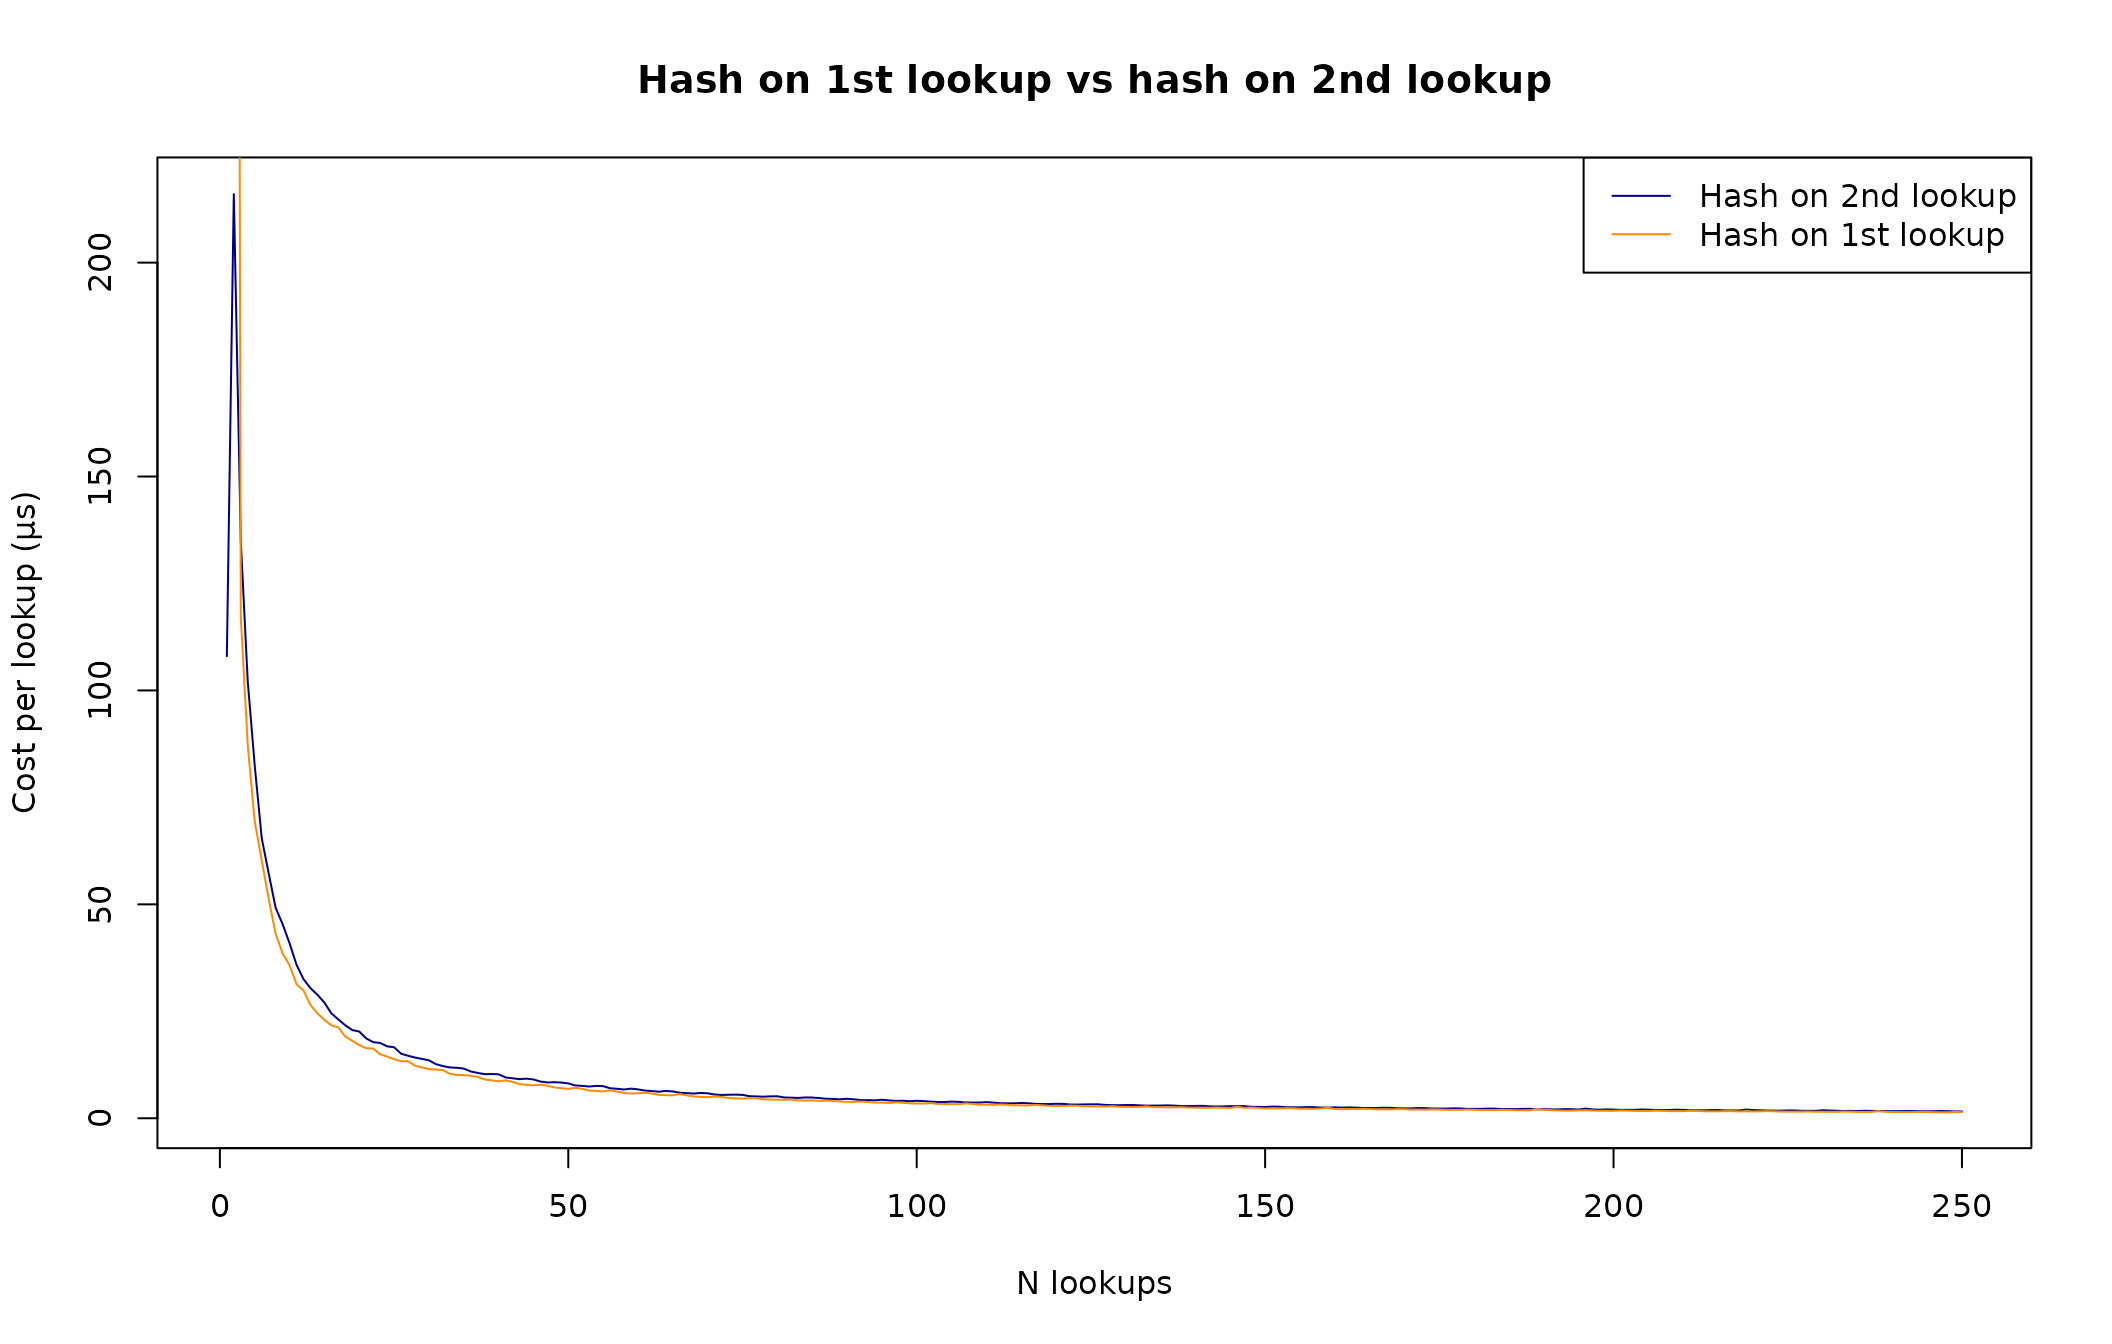
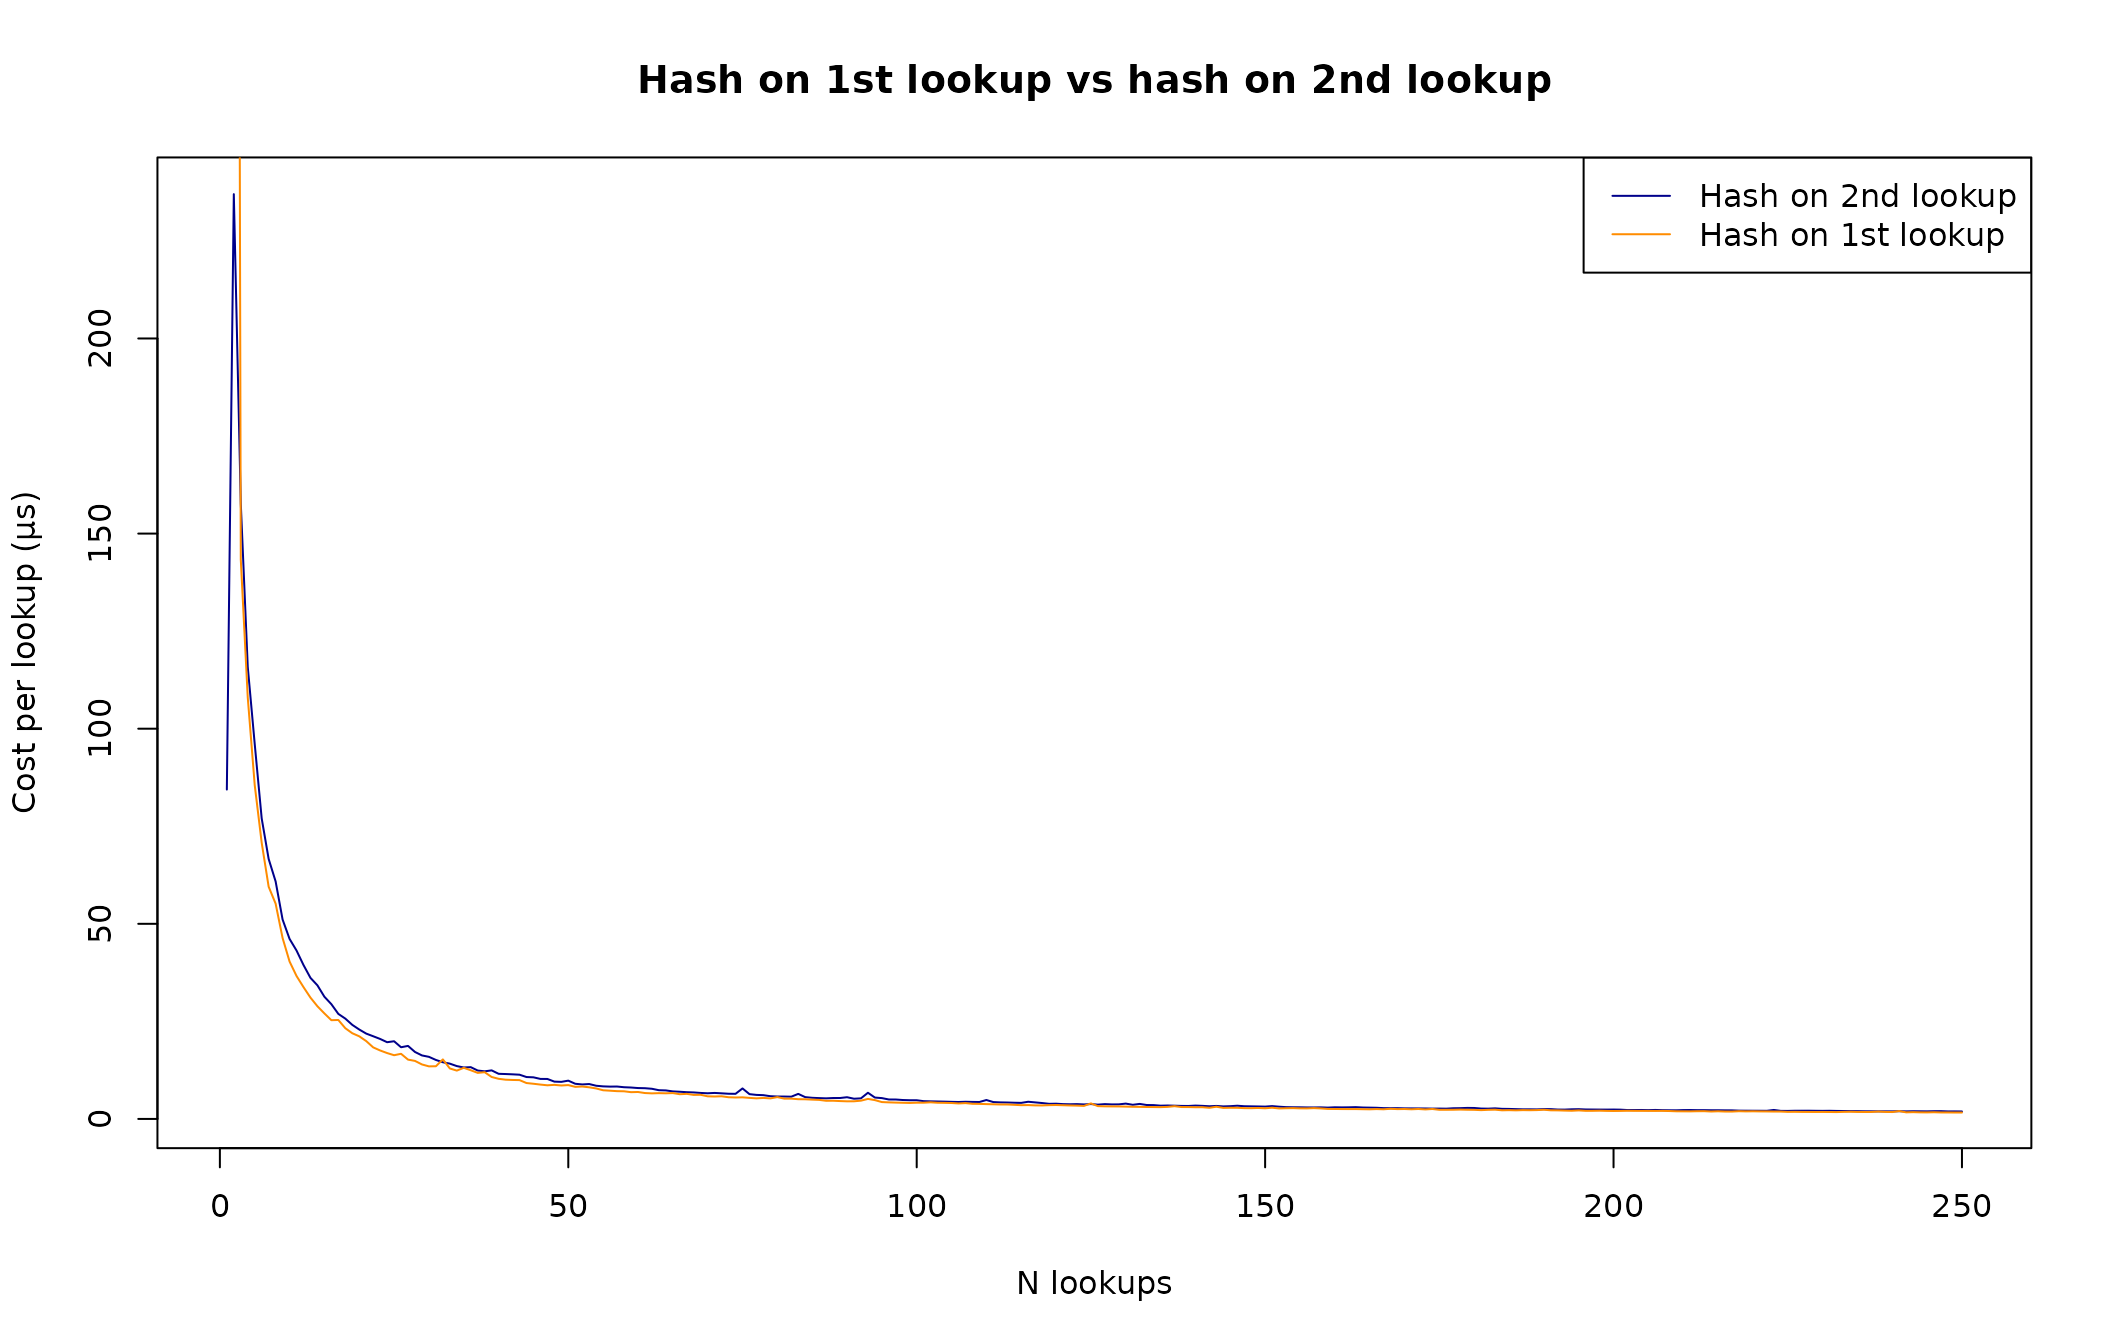
Deploying to gh-pages from @ NicChr/cppally@c8b9902f0fedfa3edd1aa2c9520593ccd8e44796 🚀

diff --git a/articles/protection.html b/articles/protection.html
@@ -144,11 +144,11 @@ optimisations.</p>
 <div class="sourceCode" id="cb4"><pre class="downlit sourceCode r">
 <code class="sourceCode R"><span><span class="va">insert_release_cpp11</span> <span class="op">&lt;-</span> <span class="fu"><a href="https://rdrr.io/r/base/lapply.html" class="external-link">replicate</a></span><span class="op">(</span><span class="fl">10</span><span class="op">^</span><span class="fl">4</span>, <span class="fu">bench_protect_insert_release_cpp11</span><span class="op">(</span><span class="fl">10</span><span class="op">^</span><span class="fl">4</span><span class="op">)</span><span class="op">)</span> </span>
 <span><span class="fu"><a href="https://rdrr.io/r/base/mean.html" class="external-link">mean</a></span><span class="op">(</span><span class="va">insert_release_cpp11</span><span class="op">)</span></span>
-<span><span class="co">#&gt; [1] 39.74929</span></span>
+<span><span class="co">#&gt; [1] 38.59722</span></span>
 <span><span class="va">insert_release_cppally</span> <span class="op">&lt;-</span> <span class="fu"><a href="https://rdrr.io/r/base/lapply.html" class="external-link">replicate</a></span><span class="op">(</span><span class="fl">10</span><span class="op">^</span><span class="fl">4</span>, <span class="fu">bench_protect_insert_release_cppally</span><span class="op">(</span><span class="fl">10</span><span class="op">^</span><span class="fl">4</span><span class="op">)</span><span class="op">)</span></span>
 <span><span class="fu"><a href="https://rdrr.io/r/base/mean.html" class="external-link">mean</a></span><span class="op">(</span><span class="va">insert_release_cppally</span><span class="op">)</span></span>
-<span><span class="co">#&gt; [1] 15.81977</span></span></code></pre></div>
-<p>On my machine, cpp11 performs an insert &amp; release every ~40
+<span><span class="co">#&gt; [1] 16.224</span></span></code></pre></div>
+<p>On my machine, cpp11 performs an insert &amp; release every ~39
 nanoseconds. cppally performs better, with ~16 nanoseconds per insert
 &amp; release.</p>
 <p><strong>Copy benchmark</strong></p>
@@ -195,12 +195,12 @@ nanoseconds. cppally performs better, with ~16 nanoseconds per insert
 <div class="sourceCode" id="cb7"><pre class="downlit sourceCode r">
 <code class="sourceCode R"><span><span class="va">copy_sexp_cpp11</span> <span class="op">&lt;-</span> <span class="fu"><a href="https://rdrr.io/r/base/lapply.html" class="external-link">replicate</a></span><span class="op">(</span><span class="fl">10</span><span class="op">^</span><span class="fl">4</span>, <span class="fu">bench_protect_copy_cpp11</span><span class="op">(</span><span class="fl">10</span><span class="op">^</span><span class="fl">4</span><span class="op">)</span><span class="op">)</span></span>
 <span><span class="fu"><a href="https://rdrr.io/r/base/mean.html" class="external-link">mean</a></span><span class="op">(</span><span class="va">copy_sexp_cpp11</span><span class="op">)</span></span>
-<span><span class="co">#&gt; [1] 35.48663</span></span>
+<span><span class="co">#&gt; [1] 36.93989</span></span>
 <span><span class="va">copy_sexp_cppally</span> <span class="op">&lt;-</span> <span class="fu"><a href="https://rdrr.io/r/base/lapply.html" class="external-link">replicate</a></span><span class="op">(</span><span class="fl">10</span><span class="op">^</span><span class="fl">4</span>, <span class="fu">bench_protect_copy_cppally</span><span class="op">(</span><span class="fl">10</span><span class="op">^</span><span class="fl">4</span><span class="op">)</span><span class="op">)</span></span>
 <span><span class="fu"><a href="https://rdrr.io/r/base/mean.html" class="external-link">mean</a></span><span class="op">(</span><span class="va">copy_sexp_cppally</span><span class="op">)</span></span>
-<span><span class="co">#&gt; [1] 0.2933013</span></span></code></pre></div>
+<span><span class="co">#&gt; [1] 0.3159722</span></span></code></pre></div>
 <p>In these benchmark results we can see a drastic difference, with
-cpp11 at ~35 ns/copy and cppally at ~0.3 ns/copy.</p>
+cpp11 at ~37 ns/copy and cppally at ~0.3 ns/copy.</p>
 <p><strong>Impact of protection overhead, a real example</strong></p>
 <p>Let’s look at a real example of how much protection overhead can have
 an impact on performance.</p>
@@ -259,21 +259,21 @@ values in a character vector</p>
 <span><span class="co">#&gt; <span style="color: #949494;"># A tibble: 1 × 6</span></span></span>
 <span><span class="co">#&gt;   expression         min   median `itr/sec` mem_alloc `gc/sec`</span></span>
 <span><span class="co">#&gt;   <span style="color: #949494; font-style: italic;">&lt;bch:expr&gt;</span>    <span style="color: #949494; font-style: italic;">&lt;bch:tm&gt;</span> <span style="color: #949494; font-style: italic;">&lt;bch:tm&gt;</span>     <span style="color: #949494; font-style: italic;">&lt;dbl&gt;</span> <span style="color: #949494; font-style: italic;">&lt;bch:byt&gt;</span>    <span style="color: #949494; font-style: italic;">&lt;dbl&gt;</span></span></span>
-<span><span class="co">#&gt; <span style="color: #BCBCBC;">1</span> C_na_count(x)   54.4µs   54.7µs    <span style="text-decoration: underline;">18</span>073.        0B        0</span></span></code></pre></div>
+<span><span class="co">#&gt; <span style="color: #BCBCBC;">1</span> C_na_count(x)   35.5µs   63.4µs    <span style="text-decoration: underline;">15</span>518.        0B        0</span></span></code></pre></div>
 <p><strong>cpp11 results</strong></p>
 <div class="sourceCode" id="cb13"><pre class="downlit sourceCode r">
 <code class="sourceCode R"><span><span class="fu"><a href="https://bench.r-lib.org/reference/mark.html" class="external-link">mark</a></span><span class="op">(</span><span class="fu">cpp11_na_count</span><span class="op">(</span><span class="va">x</span><span class="op">)</span><span class="op">)</span></span>
 <span><span class="co">#&gt; <span style="color: #949494;"># A tibble: 1 × 6</span></span></span>
 <span><span class="co">#&gt;   expression             min   median `itr/sec` mem_alloc `gc/sec`</span></span>
 <span><span class="co">#&gt;   <span style="color: #949494; font-style: italic;">&lt;bch:expr&gt;</span>        <span style="color: #949494; font-style: italic;">&lt;bch:tm&gt;</span> <span style="color: #949494; font-style: italic;">&lt;bch:tm&gt;</span>     <span style="color: #949494; font-style: italic;">&lt;dbl&gt;</span> <span style="color: #949494; font-style: italic;">&lt;bch:byt&gt;</span>    <span style="color: #949494; font-style: italic;">&lt;dbl&gt;</span></span></span>
-<span><span class="co">#&gt; <span style="color: #BCBCBC;">1</span> cpp11_na_count(x)   7.25ms   7.44ms      133.        0B     44.4</span></span></code></pre></div>
+<span><span class="co">#&gt; <span style="color: #BCBCBC;">1</span> cpp11_na_count(x)   6.88ms   6.99ms      142.        0B     47.5</span></span></code></pre></div>
 <p><strong>cppally results</strong></p>
 <div class="sourceCode" id="cb14"><pre class="downlit sourceCode r">
 <code class="sourceCode R"><span><span class="fu"><a href="https://bench.r-lib.org/reference/mark.html" class="external-link">mark</a></span><span class="op">(</span><span class="fu">cppally_na_count</span><span class="op">(</span><span class="va">x</span><span class="op">)</span><span class="op">)</span></span>
 <span><span class="co">#&gt; <span style="color: #949494;"># A tibble: 1 × 6</span></span></span>
 <span><span class="co">#&gt;   expression               min   median `itr/sec` mem_alloc `gc/sec`</span></span>
 <span><span class="co">#&gt;   <span style="color: #949494; font-style: italic;">&lt;bch:expr&gt;</span>          <span style="color: #949494; font-style: italic;">&lt;bch:tm&gt;</span> <span style="color: #949494; font-style: italic;">&lt;bch:tm&gt;</span>     <span style="color: #949494; font-style: italic;">&lt;dbl&gt;</span> <span style="color: #949494; font-style: italic;">&lt;bch:byt&gt;</span>    <span style="color: #949494; font-style: italic;">&lt;dbl&gt;</span></span></span>
-<span><span class="co">#&gt; <span style="color: #BCBCBC;">1</span> cppally_na_count(x)   1.26ms   1.33ms      753.        0B        0</span></span></code></pre></div>
+<span><span class="co">#&gt; <span style="color: #BCBCBC;">1</span> cppally_na_count(x)   1.46ms   1.47ms      677.        0B        0</span></span></code></pre></div>
 <p>Counting values is a simple operation and because of its simplicity,
 the overhead associated with protection will dominate the benchmark. We
 can see that when removing the protection overhead and using the R C API
@@ -315,7 +315,7 @@ non-owning version of <code>r_str</code>.</p>
 <span><span class="co">#&gt; <span style="color: #949494;"># A tibble: 1 × 6</span></span></span>
 <span><span class="co">#&gt;   expression                    min   median `itr/sec` mem_alloc `gc/sec`</span></span>
 <span><span class="co">#&gt;   <span style="color: #949494; font-style: italic;">&lt;bch:expr&gt;</span>               <span style="color: #949494; font-style: italic;">&lt;bch:tm&gt;</span> <span style="color: #949494; font-style: italic;">&lt;bch:tm&gt;</span>     <span style="color: #949494; font-style: italic;">&lt;dbl&gt;</span> <span style="color: #949494; font-style: italic;">&lt;bch:byt&gt;</span>    <span style="color: #949494; font-style: italic;">&lt;dbl&gt;</span></span></span>
-<span><span class="co">#&gt; <span style="color: #BCBCBC;">1</span> cppally_fast_na_count(x)   54.5µs   54.9µs    <span style="text-decoration: underline;">18</span>015.        0B        0</span></span></code></pre></div>
+<span><span class="co">#&gt; <span style="color: #BCBCBC;">1</span> cppally_fast_na_count(x)   34.4µs   63.6µs    <span style="text-decoration: underline;">15</span>225.        0B        0</span></span></code></pre></div>
 <p>Looking at the benchmark results, we have effectively eliminated the
 protection overhead and the median execution time is much closer to that
 of the R C API.</p>
@@ -342,7 +342,7 @@ context.</p>
 <span><span class="co">#&gt; <span style="color: #949494;"># A tibble: 1 × 6</span></span></span>
 <span><span class="co">#&gt;   expression                       min   median `itr/sec` mem_alloc `gc/sec`</span></span>
 <span><span class="co">#&gt;   <span style="color: #949494; font-style: italic;">&lt;bch:expr&gt;</span>                  <span style="color: #949494; font-style: italic;">&lt;bch:tm&gt;</span> <span style="color: #949494; font-style: italic;">&lt;bch:tm&gt;</span>     <span style="color: #949494; font-style: italic;">&lt;dbl&gt;</span> <span style="color: #949494; font-style: italic;">&lt;bch:byt&gt;</span>    <span style="color: #949494; font-style: italic;">&lt;dbl&gt;</span></span></span>
-<span><span class="co">#&gt; <span style="color: #BCBCBC;">1</span> cppally_fast_na_count_v2(x)   58.2µs   58.3µs    <span style="text-decoration: underline;">16</span>905.        0B        0</span></span></code></pre></div>
+<span><span class="co">#&gt; <span style="color: #BCBCBC;">1</span> cppally_fast_na_count_v2(x)   63.3µs   63.6µs    <span style="text-decoration: underline;">15</span>457.        0B     2.01</span></span></code></pre></div>
 <p>The results are similar to that of
 <code>cppally_fast_na_count()</code>.</p>
 </div>

diff --git a/articles/vector_name_hashing.html b/articles/vector_name_hashing.html
@@ -120,12 +120,12 @@ index</p>
 <span><span class="co">#&gt; <span style="color: #949494;"># A tibble: 1 × 6</span></span></span>
 <span><span class="co">#&gt;   expression      min   median `itr/sec` mem_alloc `gc/sec`</span></span>
 <span><span class="co">#&gt;   <span style="color: #949494; font-style: italic;">&lt;bch:expr&gt;</span> <span style="color: #949494; font-style: italic;">&lt;bch:tm&gt;</span> <span style="color: #949494; font-style: italic;">&lt;bch:tm&gt;</span>     <span style="color: #949494; font-style: italic;">&lt;dbl&gt;</span> <span style="color: #949494; font-style: italic;">&lt;bch:byt&gt;</span>    <span style="color: #949494; font-style: italic;">&lt;dbl&gt;</span></span></span>
-<span><span class="co">#&gt; <span style="color: #BCBCBC;">1</span> large[[1]]    128ns    139ns  5<span style="text-decoration: underline;">994</span>567.        0B     600.</span></span>
+<span><span class="co">#&gt; <span style="color: #BCBCBC;">1</span> large[[1]]    140ns    160ns  6<span style="text-decoration: underline;">031</span>327.        0B     603.</span></span>
 <span><span class="fu"><a href="https://bench.r-lib.org/reference/mark.html" class="external-link">mark</a></span><span class="op">(</span><span class="va">large</span><span class="op">[[</span><span class="fu"><a href="https://rdrr.io/r/base/length.html" class="external-link">length</a></span><span class="op">(</span><span class="va">large</span><span class="op">)</span><span class="op">]</span><span class="op">]</span><span class="op">)</span></span>
 <span><span class="co">#&gt; <span style="color: #949494;"># A tibble: 1 × 6</span></span></span>
 <span><span class="co">#&gt;   expression                  min   median `itr/sec` mem_alloc `gc/sec`</span></span>
 <span><span class="co">#&gt;   <span style="color: #949494; font-style: italic;">&lt;bch:expr&gt;</span>             <span style="color: #949494; font-style: italic;">&lt;bch:tm&gt;</span> <span style="color: #949494; font-style: italic;">&lt;bch:tm&gt;</span>     <span style="color: #949494; font-style: italic;">&lt;dbl&gt;</span> <span style="color: #949494; font-style: italic;">&lt;bch:byt&gt;</span>    <span style="color: #949494; font-style: italic;">&lt;dbl&gt;</span></span></span>
-<span><span class="co">#&gt; <span style="color: #BCBCBC;">1</span> large[[length(large)]]    202ns    216ns  4<span style="text-decoration: underline;">181</span>779.        0B        0</span></span></code></pre></div>
+<span><span class="co">#&gt; <span style="color: #BCBCBC;">1</span> large[[length(large)]]    220ns    241ns  3<span style="text-decoration: underline;">796</span>828.        0B        0</span></span></code></pre></div>
 <p>Since R scans the names each time, lookup by name is O(n) and can be
 slow if names happen to be near the end of the vector</p>
 <div class="sourceCode" id="cb6"><pre class="downlit sourceCode r">
@@ -136,8 +136,8 @@ slow if names happen to be near the end of the vector</p>
 <span><span class="co">#&gt; <span style="color: #949494;"># A tibble: 2 × 6</span></span></span>
 <span><span class="co">#&gt;   expression      min   median `itr/sec` mem_alloc `gc/sec`</span></span>
 <span><span class="co">#&gt;   <span style="color: #949494; font-style: italic;">&lt;bch:expr&gt;</span> <span style="color: #949494; font-style: italic;">&lt;bch:tm&gt;</span> <span style="color: #949494; font-style: italic;">&lt;bch:tm&gt;</span>     <span style="color: #949494; font-style: italic;">&lt;dbl&gt;</span> <span style="color: #949494; font-style: italic;">&lt;bch:byt&gt;</span>    <span style="color: #949494; font-style: italic;">&lt;dbl&gt;</span></span></span>
-<span><span class="co">#&gt; <span style="color: #BCBCBC;">1</span> by_name       136ns    147ns  6<span style="text-decoration: underline;">071</span>801.        0B     607.</span></span>
-<span><span class="co">#&gt; <span style="color: #BCBCBC;">2</span> by_index      125ns    137ns  6<span style="text-decoration: underline;">762</span>499.        0B       0</span></span>
+<span><span class="co">#&gt; <span style="color: #BCBCBC;">1</span> by_name       150ns    171ns  5<span style="text-decoration: underline;">332</span>112.        0B     533.</span></span>
+<span><span class="co">#&gt; <span style="color: #BCBCBC;">2</span> by_index      140ns    160ns  5<span style="text-decoration: underline;">843</span>260.        0B       0</span></span>
 <span></span>
 <span><span class="fu"><a href="https://bench.r-lib.org/reference/mark.html" class="external-link">mark</a></span><span class="op">(</span></span>
 <span>    by_name <span class="op">=</span> <span class="va">large</span><span class="op">[[</span><span class="st">"name_100000"</span><span class="op">]</span><span class="op">]</span>, </span>
@@ -146,8 +146,8 @@ slow if names happen to be near the end of the vector</p>
 <span><span class="co">#&gt; <span style="color: #949494;"># A tibble: 2 × 6</span></span></span>
 <span><span class="co">#&gt;   expression      min   median `itr/sec` mem_alloc `gc/sec`</span></span>
 <span><span class="co">#&gt;   <span style="color: #949494; font-style: italic;">&lt;bch:expr&gt;</span> <span style="color: #949494; font-style: italic;">&lt;bch:tm&gt;</span> <span style="color: #949494; font-style: italic;">&lt;bch:tm&gt;</span>     <span style="color: #949494; font-style: italic;">&lt;dbl&gt;</span> <span style="color: #949494; font-style: italic;">&lt;bch:byt&gt;</span>    <span style="color: #949494; font-style: italic;">&lt;dbl&gt;</span></span></span>
-<span><span class="co">#&gt; <span style="color: #BCBCBC;">1</span> by_name       521µs    553µs     <span style="text-decoration: underline;">1</span>787.        0B        0</span></span>
-<span><span class="co">#&gt; <span style="color: #BCBCBC;">2</span> by_index      128ns    138ns  6<span style="text-decoration: underline;">890</span>840.        0B        0</span></span></code></pre></div>
+<span><span class="co">#&gt; <span style="color: #BCBCBC;">1</span> by_name       548µs    560µs     <span style="text-decoration: underline;">1</span>772.        0B        0</span></span>
+<span><span class="co">#&gt; <span style="color: #BCBCBC;">2</span> by_index      140ns    160ns  6<span style="text-decoration: underline;">009</span>575.        0B        0</span></span></code></pre></div>
 <p>If we created a hash table of names-values, we could speedup repeated
 lookups</p>
 <div class="sourceCode" id="cb7"><pre class="downlit sourceCode r">
@@ -171,9 +171,9 @@ hashed name</p>
 <span><span class="co">#&gt; <span style="color: #949494;"># A tibble: 3 × 6</span></span></span>
 <span><span class="co">#&gt;   expression          min   median `itr/sec` mem_alloc `gc/sec`</span></span>
 <span><span class="co">#&gt;   <span style="color: #949494; font-style: italic;">&lt;bch:expr&gt;</span>     <span style="color: #949494; font-style: italic;">&lt;bch:tm&gt;</span> <span style="color: #949494; font-style: italic;">&lt;bch:tm&gt;</span>     <span style="color: #949494; font-style: italic;">&lt;dbl&gt;</span> <span style="color: #949494; font-style: italic;">&lt;bch:byt&gt;</span>    <span style="color: #949494; font-style: italic;">&lt;dbl&gt;</span></span></span>
-<span><span class="co">#&gt; <span style="color: #BCBCBC;">1</span> by_name           521µs    552µs     <span style="text-decoration: underline;">1</span>807.        0B        0</span></span>
-<span><span class="co">#&gt; <span style="color: #BCBCBC;">2</span> by_index          129ns    139ns  6<span style="text-decoration: underline;">221</span>037.        0B        0</span></span>
-<span><span class="co">#&gt; <span style="color: #BCBCBC;">3</span> by_hashed_name    807ns    835ns   <span style="text-decoration: underline;">880</span>047.        0B        0</span></span></code></pre></div>
+<span><span class="co">#&gt; <span style="color: #BCBCBC;">1</span> by_name           548µs    561µs     <span style="text-decoration: underline;">1</span>782.        0B        0</span></span>
+<span><span class="co">#&gt; <span style="color: #BCBCBC;">2</span> by_index          140ns    160ns  5<span style="text-decoration: underline;">937</span>629.        0B        0</span></span>
+<span><span class="co">#&gt; <span style="color: #BCBCBC;">3</span> by_hashed_name    881ns    922ns   <span style="text-decoration: underline;">771</span>728.        0B        0</span></span></code></pre></div>
 <p>That worked! Extracting the value associated with the last name using
 the hash table was almost as fast as looking it up by location.</p>
 <p>cppally uses this same approach internally, attaching a lazy hash map
@@ -305,8 +305,8 @@ R and C++</p>
 <span><span class="co">#&gt; <span style="color: #949494;"># A tibble: 2 × 6</span></span></span>
 <span><span class="co">#&gt;   expression              min   median `itr/sec` mem_alloc `gc/sec`</span></span>
 <span><span class="co">#&gt;   <span style="color: #949494; font-style: italic;">&lt;bch:expr&gt;</span>         <span style="color: #949494; font-style: italic;">&lt;bch:tm&gt;</span> <span style="color: #949494; font-style: italic;">&lt;bch:tm&gt;</span>     <span style="color: #949494; font-style: italic;">&lt;dbl&gt;</span> <span style="color: #949494; font-style: italic;">&lt;bch:byt&gt;</span>    <span style="color: #949494; font-style: italic;">&lt;dbl&gt;</span></span></span>
-<span><span class="co">#&gt; <span style="color: #BCBCBC;">1</span> cppally_one_lookup   30.3µs   30.9µs    <span style="text-decoration: underline;">31</span>569.        0B        0</span></span>
-<span><span class="co">#&gt; <span style="color: #BCBCBC;">2</span> base_one_lookup     534.8µs  566.1µs     <span style="text-decoration: underline;">1</span>764.    21.6KB        0</span></span></code></pre></div>
+<span><span class="co">#&gt; <span style="color: #BCBCBC;">1</span> cppally_one_lookup   33.5µs     34µs    <span style="text-decoration: underline;">28</span>241.        0B        0</span></span>
+<span><span class="co">#&gt; <span style="color: #BCBCBC;">2</span> base_one_lookup     548.9µs    562µs     <span style="text-decoration: underline;">1</span>777.    21.6KB        0</span></span></code></pre></div>
 <p>While I’m not sure why cppally’s linear scan is faster than R’s, it
 may be due to the fact that direct data access is used to compare
 elements instead of <code>STRING_ELT()</code></p>

diff --git a/reference/cpp_source.html b/reference/cpp_source.html
@@ -304,13 +304,13 @@ the <code>[[cppally::register]]</code> tagged functions to R. <br><code>cpp_eval
 <span class="r-out co"><span class="r-pr">#&gt;</span> <span style="color: #949494;"># A tibble: 1 × 13</span></span>
 <span class="r-out co"><span class="r-pr">#&gt;</span>   expression      min median `itr/sec` mem_alloc `gc/sec` n_itr  n_gc total_time</span>
 <span class="r-out co"><span class="r-pr">#&gt;</span>   <span style="color: #949494; font-style: italic;">&lt;bch:expr&gt;</span>   <span style="color: #949494; font-style: italic;">&lt;bch:&gt;</span> <span style="color: #949494; font-style: italic;">&lt;bch:&gt;</span>     <span style="color: #949494; font-style: italic;">&lt;dbl&gt;</span> <span style="color: #949494; font-style: italic;">&lt;bch:byt&gt;</span>    <span style="color: #949494; font-style: italic;">&lt;dbl&gt;</span> <span style="color: #949494; font-style: italic;">&lt;int&gt;</span> <span style="color: #949494; font-style: italic;">&lt;dbl&gt;</span>   <span style="color: #949494; font-style: italic;">&lt;bch:tm&gt;</span></span>
-<span class="r-out co"><span class="r-pr">#&gt;</span> <span style="color: #BCBCBC;">1</span> last_altrep… 3.71µs 4.72µs   <span style="text-decoration: underline;">173</span>868.    3.18KB        0 <span style="text-decoration: underline;">10</span>000     0     57.5ms</span>
+<span class="r-out co"><span class="r-pr">#&gt;</span> <span style="color: #BCBCBC;">1</span> last_altrep… 4.03µs 5.34µs   <span style="text-decoration: underline;">185</span>231.    3.18KB        0 <span style="text-decoration: underline;">10</span>000     0       54ms</span>
 <span class="r-out co"><span class="r-pr">#&gt;</span> <span style="color: #949494;"># ℹ 4 more variables: result &lt;list&gt;, memory &lt;list&gt;, time &lt;list&gt;, gc &lt;list&gt;</span></span>
 <span class="r-in"><span><span class="fu"><a href="https://bench.r-lib.org/reference/mark.html" class="external-link">mark</a></span><span class="op">(</span><span class="fu">last_altrep_unaware</span><span class="op">(</span><span class="fl">1</span><span class="op">:</span><span class="fl">10</span><span class="op">^</span><span class="fl">5</span><span class="op">)</span><span class="op">)</span> <span class="co"># Materialises full vector</span></span></span>
 <span class="r-out co"><span class="r-pr">#&gt;</span> <span style="color: #949494;"># A tibble: 1 × 13</span></span>
 <span class="r-out co"><span class="r-pr">#&gt;</span>   expression      min median `itr/sec` mem_alloc `gc/sec` n_itr  n_gc total_time</span>
 <span class="r-out co"><span class="r-pr">#&gt;</span>   <span style="color: #949494; font-style: italic;">&lt;bch:expr&gt;</span>   <span style="color: #949494; font-style: italic;">&lt;bch:&gt;</span> <span style="color: #949494; font-style: italic;">&lt;bch:&gt;</span>     <span style="color: #949494; font-style: italic;">&lt;dbl&gt;</span> <span style="color: #949494; font-style: italic;">&lt;bch:byt&gt;</span>    <span style="color: #949494; font-style: italic;">&lt;dbl&gt;</span> <span style="color: #949494; font-style: italic;">&lt;int&gt;</span> <span style="color: #949494; font-style: italic;">&lt;dbl&gt;</span>   <span style="color: #949494; font-style: italic;">&lt;bch:tm&gt;</span></span>
-<span class="r-out co"><span class="r-pr">#&gt;</span> <span style="color: #BCBCBC;">1</span> last_altrep… 47.5µs 51.9µs    <span style="text-decoration: underline;">16</span>021.     391KB     127.  <span style="text-decoration: underline;">3</span>670    29      229ms</span>
+<span class="r-out co"><span class="r-pr">#&gt;</span> <span style="color: #BCBCBC;">1</span> last_altrep… 37.6µs 39.4µs    <span style="text-decoration: underline;">19</span>764.     391KB     160.  <span style="text-decoration: underline;">3</span>707    30      188ms</span>
 <span class="r-out co"><span class="r-pr">#&gt;</span> <span style="color: #949494;"># ℹ 4 more variables: result &lt;list&gt;, memory &lt;list&gt;, time &lt;list&gt;, gc &lt;list&gt;</span></span>
 <span class="r-in"><span></span></span>
 <span class="r-in"><span><span class="co">### Copy-on-modify ###</span></span></span>
@@ -346,7 +346,7 @@ the <code>[[cppally::register]]</code> tagged functions to R. <br><code>cpp_eval
 <span class="r-out co"><span class="r-pr">#&gt;</span> <span style="color: #949494;"># A tibble: 1 × 13</span></span>
 <span class="r-out co"><span class="r-pr">#&gt;</span>   expression      min median `itr/sec` mem_alloc `gc/sec` n_itr  n_gc total_time</span>
 <span class="r-out co"><span class="r-pr">#&gt;</span>   <span style="color: #949494; font-style: italic;">&lt;bch:expr&gt;</span> <span style="color: #949494; font-style: italic;">&lt;bch:tm&gt;</span> <span style="color: #949494; font-style: italic;">&lt;bch:&gt;</span>     <span style="color: #949494; font-style: italic;">&lt;dbl&gt;</span> <span style="color: #949494; font-style: italic;">&lt;bch:byt&gt;</span>    <span style="color: #949494; font-style: italic;">&lt;dbl&gt;</span> <span style="color: #949494; font-style: italic;">&lt;int&gt;</span> <span style="color: #949494; font-style: italic;">&lt;dbl&gt;</span>   <span style="color: #949494; font-style: italic;">&lt;bch:tm&gt;</span></span>
-<span class="r-out co"><span class="r-pr">#&gt;</span> <span style="color: #BCBCBC;">1</span> reverse(x)    412µs  519µs     <span style="text-decoration: underline;">2</span>027.     391KB     15.9   763     6      376ms</span>
+<span class="r-out co"><span class="r-pr">#&gt;</span> <span style="color: #BCBCBC;">1</span> reverse(x)    475µs  490µs     <span style="text-decoration: underline;">1</span>992.     391KB     14.8   945     7      474ms</span>
 <span class="r-out co"><span class="r-pr">#&gt;</span> <span style="color: #949494;"># ℹ 4 more variables: result &lt;list&gt;, memory &lt;list&gt;, time &lt;list&gt;, gc &lt;list&gt;</span></span>
 <span class="r-in"><span></span></span>
 <span class="r-in"><span><span class="co"># The cppally preferred approach is to allocate a fresh vector or copy the</span></span></span>
@@ -372,10 +372,10 @@ the <code>[[cppally::register]]</code> tagged functions to R. <br><code>cpp_eval
 <span class="r-in"><span><span class="op">)</span></span></span>
 <span class="r-out co"><span class="r-pr">#&gt;</span> <span style="color: #949494;"># A tibble: 3 × 13</span></span>
 <span class="r-out co"><span class="r-pr">#&gt;</span>   expression     min  median `itr/sec` mem_alloc `gc/sec` n_itr  n_gc total_time</span>
-<span class="r-out co"><span class="r-pr">#&gt;</span>   <span style="color: #949494; font-style: italic;">&lt;bch:expr&gt;</span> <span style="color: #949494; font-style: italic;">&lt;bch:t&gt;</span> <span style="color: #949494; font-style: italic;">&lt;bch:t&gt;</span>     <span style="color: #949494; font-style: italic;">&lt;dbl&gt;</span> <span style="color: #949494; font-style: italic;">&lt;bch:byt&gt;</span>    <span style="color: #949494; font-style: italic;">&lt;dbl&gt;</span> <span style="color: #949494; font-style: italic;">&lt;int&gt;</span> <span style="color: #949494; font-style: italic;">&lt;dbl&gt;</span>   <span style="color: #949494; font-style: italic;">&lt;bch:tm&gt;</span></span>
-<span class="r-out co"><span class="r-pr">#&gt;</span> <span style="color: #BCBCBC;">1</span> r_reverse  227.2µs   236µs     <span style="text-decoration: underline;">4</span>032.     781KB     67.6  <span style="text-decoration: underline;">1</span>312    22      325ms</span>
-<span class="r-out co"><span class="r-pr">#&gt;</span> <span style="color: #BCBCBC;">2</span> cppally_c… 409.3µs 433.4µs     <span style="text-decoration: underline;">2</span>276.     391KB     17.0  <span style="text-decoration: underline;">1</span>071     8      471ms</span>
-<span class="r-out co"><span class="r-pr">#&gt;</span> <span style="color: #BCBCBC;">3</span> cppally_n…  76.8µs  84.5µs    <span style="text-decoration: underline;">10</span>036.     391KB     76.3  <span style="text-decoration: underline;">3</span>288    25      328ms</span>
+<span class="r-out co"><span class="r-pr">#&gt;</span>   <span style="color: #949494; font-style: italic;">&lt;bch:expr&gt;</span>   <span style="color: #949494; font-style: italic;">&lt;bch&gt;</span> <span style="color: #949494; font-style: italic;">&lt;bch:t&gt;</span>     <span style="color: #949494; font-style: italic;">&lt;dbl&gt;</span> <span style="color: #949494; font-style: italic;">&lt;bch:byt&gt;</span>    <span style="color: #949494; font-style: italic;">&lt;dbl&gt;</span> <span style="color: #949494; font-style: italic;">&lt;int&gt;</span> <span style="color: #949494; font-style: italic;">&lt;dbl&gt;</span>   <span style="color: #949494; font-style: italic;">&lt;bch:tm&gt;</span></span>
+<span class="r-out co"><span class="r-pr">#&gt;</span> <span style="color: #BCBCBC;">1</span> r_reverse    221µs 223.4µs     <span style="text-decoration: underline;">3</span>822.     781KB     62.2  <span style="text-decoration: underline;">1</span>229    20      322ms</span>
+<span class="r-out co"><span class="r-pr">#&gt;</span> <span style="color: #BCBCBC;">2</span> cppally_cop… 471µs 487.6µs     <span style="text-decoration: underline;">1</span>962.     391KB     14.9   919     7      468ms</span>
+<span class="r-out co"><span class="r-pr">#&gt;</span> <span style="color: #BCBCBC;">3</span> cppally_no_…  65µs  77.7µs     <span style="text-decoration: underline;">7</span>342.     391KB     58.0  <span style="text-decoration: underline;">2</span>404    19      327ms</span>
 <span class="r-out co"><span class="r-pr">#&gt;</span> <span style="color: #949494;"># ℹ 4 more variables: result &lt;list&gt;, memory &lt;list&gt;, time &lt;list&gt;, gc &lt;list&gt;</span></span>
 <span class="r-in"><span><span class="co"># }</span></span></span>
 <span class="r-in"><span></span></span>

diff --git a/articles/cppally.html b/articles/cppally.html
@@ -1227,8 +1227,8 @@ of number of unique values.</p>
 <span><span class="co">#&gt; <span style="color: #949494;"># A tibble: 2 × 6</span></span></span>
 <span><span class="co">#&gt;   expression            min   median `itr/sec` mem_alloc `gc/sec`</span></span>
 <span><span class="co">#&gt;   <span style="color: #949494; font-style: italic;">&lt;bch:expr&gt;</span>       <span style="color: #949494; font-style: italic;">&lt;bch:tm&gt;</span> <span style="color: #949494; font-style: italic;">&lt;bch:tm&gt;</span>     <span style="color: #949494; font-style: italic;">&lt;dbl&gt;</span> <span style="color: #949494; font-style: italic;">&lt;bch:byt&gt;</span>    <span style="color: #949494; font-style: italic;">&lt;dbl&gt;</span></span></span>
-<span><span class="co">#&gt; <span style="color: #BCBCBC;">1</span> base_n_unique       691µs    735µs     <span style="text-decoration: underline;">1</span>245.    1.38MB     36.9</span></span>
-<span><span class="co">#&gt; <span style="color: #BCBCBC;">2</span> cppally_n_unique    145µs    146µs     <span style="text-decoration: underline;">6</span>788.        0B      0</span></span></code></pre></div>
+<span><span class="co">#&gt; <span style="color: #BCBCBC;">1</span> base_n_unique       708µs    789µs     <span style="text-decoration: underline;">1</span>155.    1.38MB     34.4</span></span>
+<span><span class="co">#&gt; <span style="color: #BCBCBC;">2</span> cppally_n_unique    156µs    157µs     <span style="text-decoration: underline;">6</span>267.        0B      0</span></span></code></pre></div>
 <p>More useful sugar functions</p>
 <ul>
 <li><p><code><a href="https://rdrr.io/r/base/unique.html" class="external-link">unique()</a></code> - Like R’s <code><a href="https://rdrr.io/r/base/unique.html" class="external-link">unique()</a></code> but with a

diff --git a/articles/protection.md b/articles/protection.md
@@ -88,13 +88,13 @@ double bench_protect_insert_release_cppally(int n) {
 
 insert_release_cpp11 <- replicate(10^4, bench_protect_insert_release_cpp11(10^4)) 
 mean(insert_release_cpp11)
-#> [1] 39.74929
+#> [1] 38.59722
 insert_release_cppally <- replicate(10^4, bench_protect_insert_release_cppally(10^4))
 mean(insert_release_cppally)
-#> [1] 15.81977
+#> [1] 16.224
 ```
 
-On my machine, cpp11 performs an insert & release every ~40 nanoseconds.
+On my machine, cpp11 performs an insert & release every ~39 nanoseconds.
 cppally performs better, with ~16 nanoseconds per insert & release.
 
 **Copy benchmark**
@@ -150,14 +150,14 @@ double bench_protect_copy_cppally(int n) {
 
 copy_sexp_cpp11 <- replicate(10^4, bench_protect_copy_cpp11(10^4))
 mean(copy_sexp_cpp11)
-#> [1] 35.48663
+#> [1] 36.93989
 copy_sexp_cppally <- replicate(10^4, bench_protect_copy_cppally(10^4))
 mean(copy_sexp_cppally)
-#> [1] 0.2933013
+#> [1] 0.3159722
 ```
 
 In these benchmark results we can see a drastic difference, with cpp11
-at ~35 ns/copy and cppally at ~0.3 ns/copy.
+at ~37 ns/copy and cppally at ~0.3 ns/copy.
 
 **Impact of protection overhead, a real example**
 
@@ -233,7 +233,7 @@ mark(C_na_count(x))
 #> # A tibble: 1 × 6
 #>   expression         min   median `itr/sec` mem_alloc `gc/sec`
 #>   <bch:expr>    <bch:tm> <bch:tm>     <dbl> <bch:byt>    <dbl>
-#> 1 C_na_count(x)   54.4µs   54.7µs    18073.        0B        0
+#> 1 C_na_count(x)   35.5µs   63.4µs    15518.        0B        0
 ```
 
 **cpp11 results**
@@ -244,7 +244,7 @@ mark(cpp11_na_count(x))
 #> # A tibble: 1 × 6
 #>   expression             min   median `itr/sec` mem_alloc `gc/sec`
 #>   <bch:expr>        <bch:tm> <bch:tm>     <dbl> <bch:byt>    <dbl>
-#> 1 cpp11_na_count(x)   7.25ms   7.44ms      133.        0B     44.4
+#> 1 cpp11_na_count(x)   6.88ms   6.99ms      142.        0B     47.5
 ```
 
 **cppally results**
@@ -255,7 +255,7 @@ mark(cppally_na_count(x))
 #> # A tibble: 1 × 6
 #>   expression               min   median `itr/sec` mem_alloc `gc/sec`
 #>   <bch:expr>          <bch:tm> <bch:tm>     <dbl> <bch:byt>    <dbl>
-#> 1 cppally_na_count(x)   1.26ms   1.33ms      753.        0B        0
+#> 1 cppally_na_count(x)   1.46ms   1.47ms      677.        0B        0
 ```
 
 Counting values is a simple operation and because of its simplicity, the
@@ -302,7 +302,7 @@ mark(cppally_fast_na_count(x))
 #> # A tibble: 1 × 6
 #>   expression                    min   median `itr/sec` mem_alloc `gc/sec`
 #>   <bch:expr>               <bch:tm> <bch:tm>     <dbl> <bch:byt>    <dbl>
-#> 1 cppally_fast_na_count(x)   54.5µs   54.9µs    18015.        0B        0
+#> 1 cppally_fast_na_count(x)   34.4µs   63.6µs    15225.        0B        0
 ```
 
 Looking at the benchmark results, we have effectively eliminated the
@@ -335,7 +335,7 @@ mark(cppally_fast_na_count_v2(x))
 #> # A tibble: 1 × 6
 #>   expression                       min   median `itr/sec` mem_alloc `gc/sec`
 #>   <bch:expr>                  <bch:tm> <bch:tm>     <dbl> <bch:byt>    <dbl>
-#> 1 cppally_fast_na_count_v2(x)   58.2µs   58.3µs    16905.        0B        0
+#> 1 cppally_fast_na_count_v2(x)   63.3µs   63.6µs    15457.        0B     2.01
 ```
 
 The results are similar to that of `cppally_fast_na_count()`.

diff --git a/articles/vector_name_hashing.md b/articles/vector_name_hashing.md
@@ -68,12 +68,12 @@ mark(large[[1]])
 #> # A tibble: 1 × 6
 #>   expression      min   median `itr/sec` mem_alloc `gc/sec`
 #>   <bch:expr> <bch:tm> <bch:tm>     <dbl> <bch:byt>    <dbl>
-#> 1 large[[1]]    128ns    139ns  5994567.        0B     600.
+#> 1 large[[1]]    140ns    160ns  6031327.        0B     603.
 mark(large[[length(large)]])
 #> # A tibble: 1 × 6
 #>   expression                  min   median `itr/sec` mem_alloc `gc/sec`
 #>   <bch:expr>             <bch:tm> <bch:tm>     <dbl> <bch:byt>    <dbl>
-#> 1 large[[length(large)]]    202ns    216ns  4181779.        0B        0
+#> 1 large[[length(large)]]    220ns    241ns  3796828.        0B        0
 ```
 
 Since R scans the names each time, lookup by name is O(n) and can be
@@ -88,8 +88,8 @@ mark(
 #> # A tibble: 2 × 6
 #>   expression      min   median `itr/sec` mem_alloc `gc/sec`
 #>   <bch:expr> <bch:tm> <bch:tm>     <dbl> <bch:byt>    <dbl>
-#> 1 by_name       136ns    147ns  6071801.        0B     607.
-#> 2 by_index      125ns    137ns  6762499.        0B       0
+#> 1 by_name       150ns    171ns  5332112.        0B     533.
+#> 2 by_index      140ns    160ns  5843260.        0B       0
 
 mark(
     by_name = large[["name_100000"]], 
@@ -98,8 +98,8 @@ mark(
 #> # A tibble: 2 × 6
 #>   expression      min   median `itr/sec` mem_alloc `gc/sec`
 #>   <bch:expr> <bch:tm> <bch:tm>     <dbl> <bch:byt>    <dbl>
-#> 1 by_name       521µs    553µs     1787.        0B        0
-#> 2 by_index      128ns    138ns  6890840.        0B        0
+#> 1 by_name       548µs    560µs     1772.        0B        0
+#> 2 by_index      140ns    160ns  6009575.        0B        0
 ```
 
 If we created a hash table of names-values, we could speedup repeated
@@ -131,9 +131,9 @@ mark(
 #> # A tibble: 3 × 6
 #>   expression          min   median `itr/sec` mem_alloc `gc/sec`
 #>   <bch:expr>     <bch:tm> <bch:tm>     <dbl> <bch:byt>    <dbl>
-#> 1 by_name           521µs    552µs     1807.        0B        0
-#> 2 by_index          129ns    139ns  6221037.        0B        0
-#> 3 by_hashed_name    807ns    835ns   880047.        0B        0
+#> 1 by_name           548µs    561µs     1782.        0B        0
+#> 2 by_index          140ns    160ns  5937629.        0B        0
+#> 3 by_hashed_name    881ns    922ns   771728.        0B        0
 ```
 
 That worked! Extracting the value associated with the last name using
@@ -293,8 +293,8 @@ mark(
 #> # A tibble: 2 × 6
 #>   expression              min   median `itr/sec` mem_alloc `gc/sec`
 #>   <bch:expr>         <bch:tm> <bch:tm>     <dbl> <bch:byt>    <dbl>
-#> 1 cppally_one_lookup   30.3µs   30.9µs    31569.        0B        0
-#> 2 base_one_lookup     534.8µs  566.1µs     1764.    21.6KB        0
+#> 1 cppally_one_lookup   33.5µs     34µs    28241.        0B        0
+#> 2 base_one_lookup     548.9µs    562µs     1777.    21.6KB        0
 ```
 
 While I’m not sure why cppally’s linear scan is faster than R’s, it may

diff --git a/reference/cpp_source.md b/reference/cpp_source.md
@@ -243,13 +243,13 @@ mark(last_altrep_aware(1:10^5)) # No materialisation
 #> # A tibble: 1 × 13
 #>   expression      min median `itr/sec` mem_alloc `gc/sec` n_itr  n_gc total_time
 #>   <bch:expr>   <bch:> <bch:>     <dbl> <bch:byt>    <dbl> <int> <dbl>   <bch:tm>
-#> 1 last_altrep… 3.71µs 4.72µs   173868.    3.18KB        0 10000     0     57.5ms
+#> 1 last_altrep… 4.03µs 5.34µs   185231.    3.18KB        0 10000     0       54ms
 #> # ℹ 4 more variables: result <list>, memory <list>, time <list>, gc <list>
 mark(last_altrep_unaware(1:10^5)) # Materialises full vector
 #> # A tibble: 1 × 13
 #>   expression      min median `itr/sec` mem_alloc `gc/sec` n_itr  n_gc total_time
 #>   <bch:expr>   <bch:> <bch:>     <dbl> <bch:byt>    <dbl> <int> <dbl>   <bch:tm>
-#> 1 last_altrep… 47.5µs 51.9µs    16021.     391KB     127.  3670    29      229ms
+#> 1 last_altrep… 37.6µs 39.4µs    19764.     391KB     160.  3707    30      188ms
 #> # ℹ 4 more variables: result <list>, memory <list>, time <list>, gc <list>
 
 ### Copy-on-modify ###
@@ -285,7 +285,7 @@ mark(reverse(x)) # Memory allocated, therefore x was copied before reversing
 #> # A tibble: 1 × 13
 #>   expression      min median `itr/sec` mem_alloc `gc/sec` n_itr  n_gc total_time
 #>   <bch:expr> <bch:tm> <bch:>     <dbl> <bch:byt>    <dbl> <int> <dbl>   <bch:tm>
-#> 1 reverse(x)    412µs  519µs     2027.     391KB     15.9   763     6      376ms
+#> 1 reverse(x)    475µs  490µs     1992.     391KB     14.8   945     7      474ms
 #> # ℹ 4 more variables: result <list>, memory <list>, time <list>, gc <list>
 
 # The cppally preferred approach is to allocate a fresh vector or copy the
@@ -311,10 +311,10 @@ mark(
 )
 #> # A tibble: 3 × 13
 #>   expression     min  median `itr/sec` mem_alloc `gc/sec` n_itr  n_gc total_time
-#>   <bch:expr> <bch:t> <bch:t>     <dbl> <bch:byt>    <dbl> <int> <dbl>   <bch:tm>
-#> 1 r_reverse  227.2µs   236µs     4032.     781KB     67.6  1312    22      325ms
-#> 2 cppally_c… 409.3µs 433.4µs     2276.     391KB     17.0  1071     8      471ms
-#> 3 cppally_n…  76.8µs  84.5µs    10036.     391KB     76.3  3288    25      328ms
+#>   <bch:expr>   <bch> <bch:t>     <dbl> <bch:byt>    <dbl> <int> <dbl>   <bch:tm>
+#> 1 r_reverse    221µs 223.4µs     3822.     781KB     62.2  1229    20      322ms
+#> 2 cppally_cop… 471µs 487.6µs     1962.     391KB     14.9   919     7      468ms
+#> 3 cppally_no_…  65µs  77.7µs     7342.     391KB     58.0  2404    19      327ms
 #> # ℹ 4 more variables: result <list>, memory <list>, time <list>, gc <list>
 # }
 ```

diff --git a/articles/cppally.md b/articles/cppally.md
@@ -1384,8 +1384,8 @@ mark(
 #> # A tibble: 2 × 6
 #>   expression            min   median `itr/sec` mem_alloc `gc/sec`
 #>   <bch:expr>       <bch:tm> <bch:tm>     <dbl> <bch:byt>    <dbl>
-#> 1 base_n_unique       691µs    735µs     1245.    1.38MB     36.9
-#> 2 cppally_n_unique    145µs    146µs     6788.        0B      0
+#> 1 base_n_unique       708µs    789µs     1155.    1.38MB     34.4
+#> 2 cppally_n_unique    156µs    157µs     6267.        0B      0
 ```
 
 More useful sugar functions